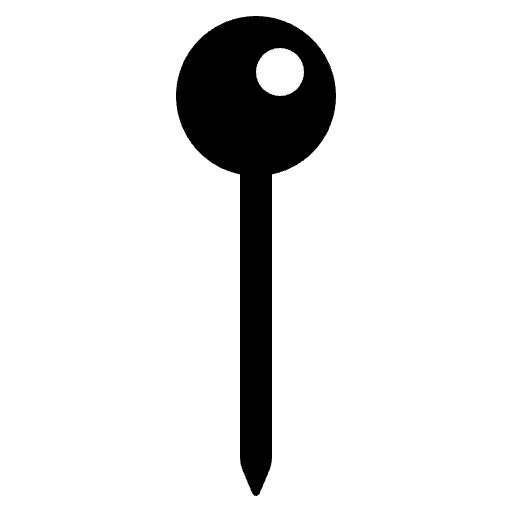
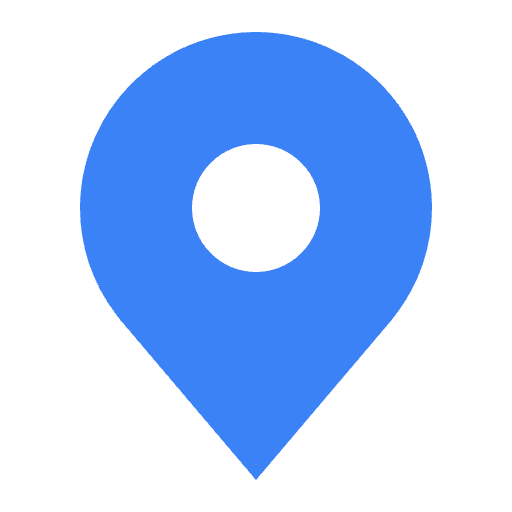
create function to get user location as address and let them copy to clipboard

diff --git a/frontend/src/components/AddForm.tsx b/frontend/src/components/AddForm.tsx
@@ -1,5 +1,5 @@
 import {allCategories} from "../utils/allCategories.ts";
-import {FormEvent, useState} from "react";
+import {FormEvent, Fragment, useEffect, useState} from "react";
 import {FoodSpotWithoutId} from "../types/FoodSpotWithoutId.ts";
 import BackButton from "./BackButton.tsx";
 import toast, {Toaster} from "react-hot-toast";
@@ -7,6 +7,14 @@ import ChoosePriceLevels from "../icons/ChoosePriceLevels.tsx";
 import getPriceLevelEnum from "../utils/getPriceLevelEnum.ts";
 import AutocompleteInput from "./AutocompleteInput.tsx";
 import BurgerMenu from "./BurgerMenu.tsx";
+import CurrentLocation from "../icons/CurrentLocation.tsx";
+import axios from "axios";
+import {Position} from "../types/Position.ts"
+import Swal from 'sweetalert2'
+import withReactContent from 'sweetalert2-react-content'
+import convertGermanSpecialCharacters from "../utils/convertGermanSpecialCharacters.ts";
+import SweetAlert2Option from "./SweetAlert2Option.tsx";
+
 
 type Props = {
     onAdd: (newFoodSpot: FoodSpotWithoutId) => void,
@@ -19,6 +27,9 @@ function AddForm({onAdd}: Props) {
     const [address, setAddress] = useState<string>("")
     const [instagramUsername, setInstagramUsername] = useState<string>("")
     const [priceLevel, setPriceLevel] = useState<boolean[]>([true, false, false])
+    const [currentAddressSuggestions, setCurrentAddressSuggestions] = useState<string[]>([])
+
+    const MySwal = withReactContent(Swal)
 
 
     function handleAddFormSubmit(event: FormEvent<HTMLFormElement>) {
@@ -59,9 +70,83 @@ function AddForm({onAdd}: Props) {
     }
 
     function handleSelectPlace(place: any) {
-        console.log(place.label)
         setAddress(place.label)
     }
+
+    function handlePickedAddress(option: number) {
+        if (option === 0) {
+            navigator.clipboard.writeText(convertGermanSpecialCharacters(currentAddressSuggestions[0], false).replace(/,/g, ""))
+        } else if (option === 1) {
+            navigator.clipboard.writeText(convertGermanSpecialCharacters(currentAddressSuggestions[1], false).replace(/,/g, ""))
+        } else {
+            navigator.clipboard.writeText(convertGermanSpecialCharacters(currentAddressSuggestions[2], false).replace(/,/g, ""))
+        }
+        toast("Saved to clipboard!", {
+            duration: 1500,
+            icon: '🕺🏻',
+            style: {
+                border: '2px solid #713200',
+                padding: '10px',
+                color: 'black',
+                boxShadow: "8px 8px 0px -2px #000000",
+                backgroundColor: "lightgreen"
+
+            }
+        })
+    }
+
+    // html: `<p>${convertGermanSpecialCharacters(currentAddressSuggestions[0], false).replace(/,/g, "")}</p><br><br><p>${convertGermanSpecialCharacters(currentAddressSuggestions[1], false).replace(/,/g, "")}</p><br><br><p>${convertGermanSpecialCharacters(currentAddressSuggestions[2], false).replace(/,/g, "")}</p>`
+
+    useEffect(() => {
+        if (navigator.geolocation) {
+            navigator.geolocation.getCurrentPosition(
+                (position) => {
+                    const {latitude, longitude} = position.coords;
+                    const currentPosition: Position = {
+                        latitude: latitude.toString(),
+                        longitude: longitude.toString()
+                    }
+                    axios.post('/api/google/convert-latlng', currentPosition)
+                        .then(response => {
+                            setCurrentAddressSuggestions(response.data);
+                            toast("Getting current position...", {
+                                duration: 1500,
+                                icon: '🕺🏻',
+                                style: {
+                                    border: '2px solid #713200',
+                                    padding: '10px',
+                                    color: 'black',
+                                    boxShadow: "8px 8px 0px -2px #000000",
+                                    backgroundColor: "#f3d935"
+
+                                }
+                            })
+                        })
+                        .catch(error => {
+                            console.error(error);
+                        });
+                })
+        }
+    }, [])
+
+function handleShowPositionSuggetions() {
+    MySwal.fire({
+        title: "Click to copy:",
+        html: <>
+            {currentAddressSuggestions.slice(0, 3).map((address: string, index: number) => {
+                return (
+                    <Fragment key={address}>
+                        <SweetAlert2Option onClick={() => {
+                            handlePickedAddress(index)
+                        }}
+                                           text={convertGermanSpecialCharacters(address, false).replace(/,/g, "")}/>
+                    </Fragment>
+                )
+            })}
+        </>
+    })
+}
+
 
 
     return (
@@ -99,9 +184,13 @@ function AddForm({onAdd}: Props) {
                             </ul>
                         </section>
                         <section className={"form-section-container"}>
-                             <AutocompleteInput onSelectPlace={handleSelectPlace} placeholder={""}/>
+                            <AutocompleteInput onSelectPlace={handleSelectPlace}
+                                               shadowPixel={"7"}/>
+                            <CurrentLocation size={"30"} nameOfClass={"current-location-icon"}
+                                             onClick={handleShowPositionSuggetions}/>
                             <ul className={"requirement-list-container"}>
-                                <li className={address.trim().length === 0 ? "invalid" : "valid"}>Can't be blank</li>
+                                <li className={address.trim().length === 0 ? "invalid" : "valid"}>Can't be blank
+                                </li>
                                 <li className={address.length < 5 ? "invalid" : "valid"}>Must contain at least 5
                                     characters
                                 </li>
@@ -119,7 +208,8 @@ function AddForm({onAdd}: Props) {
                                 <option value="default" disabled={true} hidden>Choose the category</option>
                                 {allCategories.map((category: string) => {
                                     return (
-                                        <option value={`${category}`} key={category}>{category === "DOENER" ? "DÖNER" : category}</option>
+                                        <option value={`${category}`}
+                                                key={category}>{category === "DOENER" ? "DÖNER" : category}</option>
                                     )
                                 })}
                             </select>
@@ -137,7 +227,8 @@ function AddForm({onAdd}: Props) {
                                            setInstagramUsername(e.currentTarget.value)
                                        }}/>
                                 <section>
-                                    <ChoosePriceLevels size={"1.5em"} onPriceLevel={handlePriceLevel} priceLevel={priceLevel}/>
+                                    <ChoosePriceLevels size={"1.5em"} onPriceLevel={handlePriceLevel}
+                                                       priceLevel={priceLevel}/>
                                 </section>
                             </section>
                         </section>

diff --git a/frontend/src/components/AutocompleteInput.tsx b/frontend/src/components/AutocompleteInput.tsx
@@ -4,13 +4,12 @@ import {ActionMeta, SingleValue} from "react-select";
 
 type Props = {
     onSelectPlace: (newValue: SingleValue<Option>, actionMeta: ActionMeta<Option>) => void
-    placeholder: string
+    shadowPixel: string,
 }
-function AutocompleteInput({onSelectPlace, placeholder}: Props) {
+function AutocompleteInput({onSelectPlace, shadowPixel}: Props) {
     return (
         <GooglePlacesAutocomplete
             selectProps={{
-                placeholder: placeholder,
                 onChange: onSelectPlace,
                 styles: {
                     container: (provided) => ({
@@ -18,7 +17,7 @@ function AutocompleteInput({onSelectPlace, placeholder}: Props) {
                         height: "40px",
                         width: "250px",
                         border: "1px solid black",
-                        boxShadow: "7px 7px 0px -2px #000000",
+                        boxShadow: `7px ${shadowPixel}px 0px -2px #000000`,
                         backgroundColor: "white"
                         // Add container styles here
                     }),
@@ -32,8 +31,12 @@ function AutocompleteInput({onSelectPlace, placeholder}: Props) {
                     input: (provided) => ({
                         ...provided,
                         color: 'black',
-                        fontSize: "16px",
+                        fontSize: "16px"
 
+                    }),
+                    loadingIndicator: (provided) => ({
+                        ...provided,
+                        display: "none"
                     })
                 }
             }}

diff --git a/frontend/src/components/MapOverview.tsx b/frontend/src/components/MapOverview.tsx
@@ -56,7 +56,7 @@ function MapOverview({foodSpots}: Props) {
 
     const allStreets: string[] = [];
 
-    foodSpots.forEach(foodSpot => allStreets.push(convertGermanSpecialCharacters(foodSpot.address)))
+    foodSpots.forEach(foodSpot => allStreets.push(convertGermanSpecialCharacters(foodSpot.address, true)))
 
     useEffect(() => {
         axios.post("/api/google/convert-address-multi", allStreets)
@@ -106,7 +106,7 @@ function MapOverview({foodSpots}: Props) {
     }
 
     function handleMarkerForFoodSpot(index: number) {
-        return foodSpots.find((spot) => convertGermanSpecialCharacters(spot.address.toLowerCase().replace(/,/g, "")) === allStreets[index]);
+        return foodSpots.find((spot) => convertGermanSpecialCharacters(spot.address.replace(/,/g, ""), true) === allStreets[index]);
     }
 
     const customMarkerIcon = {
@@ -145,7 +145,7 @@ function MapOverview({foodSpots}: Props) {
                                     })
                                 }}
                                          position={{lat: Number(location.latitude), lng: Number(location.longitude)}}
-                                         key={location.latitude + spot?.id}/>
+                                         key={spot?.id}/>
                             )
                         })}
                         <MarkerF position={{lat: Number(userLocation?.latitude), lng: Number(userLocation?.longitude)}}

diff --git a/frontend/src/components/MapView.tsx b/frontend/src/components/MapView.tsx
@@ -22,7 +22,7 @@ function MapView({foodSpots}: Props) {
     });
     const allAddresses: string[] = [];
 
-    foodSpots.forEach(foodSpot => allAddresses.push(convertGermanSpecialCharacters(foodSpot.address)))
+    foodSpots.forEach(foodSpot => allAddresses.push(convertGermanSpecialCharacters(foodSpot.address, true)))
 
     useEffect(() => {
         if (navigator.geolocation) {
@@ -82,7 +82,7 @@ function MapView({foodSpots}: Props) {
     }
 
     function handleMarkerForFoodSpot(index: number) {
-        return foodSpots.find((spot) => convertGermanSpecialCharacters(spot.address.toLowerCase().replace(/,/g, "")) === allAddresses[index])
+        return foodSpots.find((spot) => convertGermanSpecialCharacters(spot.address.replace(/,/g, ""), true) === allAddresses[index])
     }
 
     const customMarkerIcon = {

diff --git a/frontend/src/components/EditForm.tsx b/frontend/src/components/EditForm.tsx
@@ -113,7 +113,7 @@ function EditForm({onEditMode, foodSpot, onUpdate, onDelete}: Props) {
                         </ul>
                     </section>
                     <section className={"form-section-container"}>
-                        <AutocompleteInput onSelectPlace={handleSelectPlace} placeholder={foodSpot.address}/>
+                        <AutocompleteInput onSelectPlace={handleSelectPlace} placeholder={foodSpot.address} shadowPixel={"12"}/>
                     <ul className={"requirement-list-container"}>
                             <li className={address.trim().length === 0 ? "invalid" : "valid"}>Can't be blank</li>
                             <li className={address.length < 5 ? "invalid" : "valid"}>Must contain at least 5

diff --git a/frontend/src/App.tsx b/frontend/src/App.tsx
@@ -115,6 +115,7 @@ function App() {
             })
     }
 
+
     useEffect(handleSignedIn, [user])
 
     useEffect(() => {
@@ -125,7 +126,7 @@ function App() {
             .catch(function (error) {
                 console.error(error);
             });
-    }, [])
+    }, [user])
 
     useEffect((): void => {
         if (user !== undefined && user !== "anonymousUser") {
@@ -233,7 +234,9 @@ function App() {
 
     return (
         <>
-            <HeaderJsLibraryApi apiKey={apiKey}/>
+            {user !== undefined &&
+                <HeaderJsLibraryApi apiKey={apiKey}/>
+            }
             <Routes>
                 <Route element={<ProtectedPaths user={user}/>}>
                     <Route path={"/"}

diff --git a/frontend/src/components/ListView.tsx b/frontend/src/components/ListView.tsx
@@ -13,7 +13,7 @@ function ListView({foodSpots}: Props) {
                     <Link to={`/${foodSpot.category}/${foodSpot.id}`} className={"link"} key={foodSpot.id}>
                         <div className={"foodspot-card-container"} key={foodSpot.id}>
                             <h3>{foodSpot.name}</h3>
-                            <img className={`card-image ${convertGermanSpecialCharacters(foodSpot.category)}`} src={`${foodSpot.category}.png`}
+                            <img className={`card-image ${convertGermanSpecialCharacters(foodSpot.category, true)}`} src={`${foodSpot.category}.png`}
                                  alt="food image"/>
                         </div>
                     </Link>

diff --git a/frontend/src/icons/CurrentLocation.tsx b/frontend/src/icons/CurrentLocation.tsx
@@ -1,0 +1,13 @@
+type Props = {
+    size: string,
+    nameOfClass: string,
+    onClick: () => void
+}
+export default function CurrentLocation({size, nameOfClass, onClick}: Props) {
+    return (
+        <svg onClick={onClick} width={size} height={size} className={nameOfClass} viewBox="0 0 32 32" xmlns="http://www.w3.org/2000/svg">
+            <path fill="#3b82f6" d="M16 2A11.013 11.013 0 0 0 5 13a10.889 10.889 0 0 0 2.216 6.6s.3.395.349.452L16 30l8.439-9.953c.044-.053.345-.447.345-.447l.001-.003A10.885 10.885 0 0 0 27 13A11.013 11.013 0 0 0 16 2Zm0 15a4 4 0 1 1 4-4a4.005 4.005 0 0 1-4 4Z"></path>
+            <circle cx="16" cy="13" r="4" fill="none"></circle>
+        </svg>
+    )
+}

diff --git a/frontend/src/components/GoogleMaps.tsx b/frontend/src/components/GoogleMaps.tsx
@@ -15,7 +15,7 @@ function GoogleMaps({address}: Props) {
     useEffect(() => {
         const delay = 1000;
         const timeoutId = setTimeout(() => {
-            axios.post("/api/google/convert-address", `${convertGermanSpecialCharacters(address)}`)
+            axios.post("/api/google/convert-address", `${convertGermanSpecialCharacters(address, true)}`)
                 .then((response) => {
                     setPosition(response.data);
                 })

diff --git a/frontend/src/utils/convertGermanSpecialCharacters.ts b/frontend/src/utils/convertGermanSpecialCharacters.ts
@@ -1,5 +1,7 @@
-export default function convertGermanSpecialCharacters(value: string): string{
-    value = value.toLowerCase();
+export default function convertGermanSpecialCharacters(value: string, makeLowercase: boolean): string{
+    if (makeLowercase) {
+        value = value.toLowerCase();
+    }
     value = value.replace(/ä/g, 'ae');
     value = value.replace(/ö/g, 'oe');
     value = value.replace(/ü/g, 'ue');

diff --git a/frontend/src/App.css b/frontend/src/App.css
@@ -221,9 +221,22 @@ body {
 }
 
 .form-section-container {
+    position: relative;
     display: flex;
     flex-direction: column;
     gap: 10px;
+}
+
+.current-location-icon {
+    position: absolute;
+    top: 5px;
+    right: -40px;
+}
+
+.insert-current-location {
+    position: absolute;
+    top: 5px;
+    right: 40px;
 }
 
 .add-form-input {

diff --git a/frontend/src/components/SweetAlert2Option.tsx b/frontend/src/components/SweetAlert2Option.tsx
@@ -1,0 +1,16 @@
+
+type Props = {
+    text: string,
+    onClick: () => void
+}
+function SweetAlert2Option({text, onClick}: Props) {
+    return (
+        <>
+        <p onClick={onClick}>{text}</p>
+            <br/>
+            <br/>
+        </>
+    );
+}
+
+export default SweetAlert2Option;
